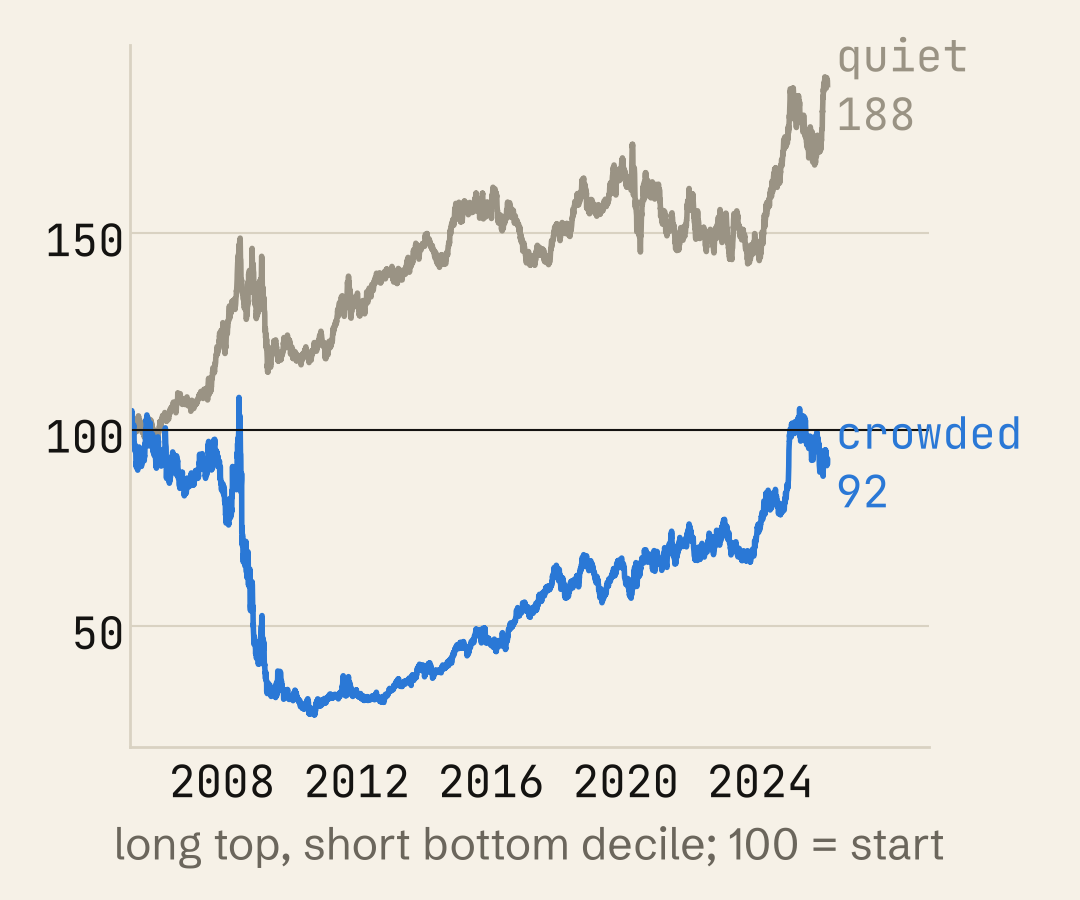
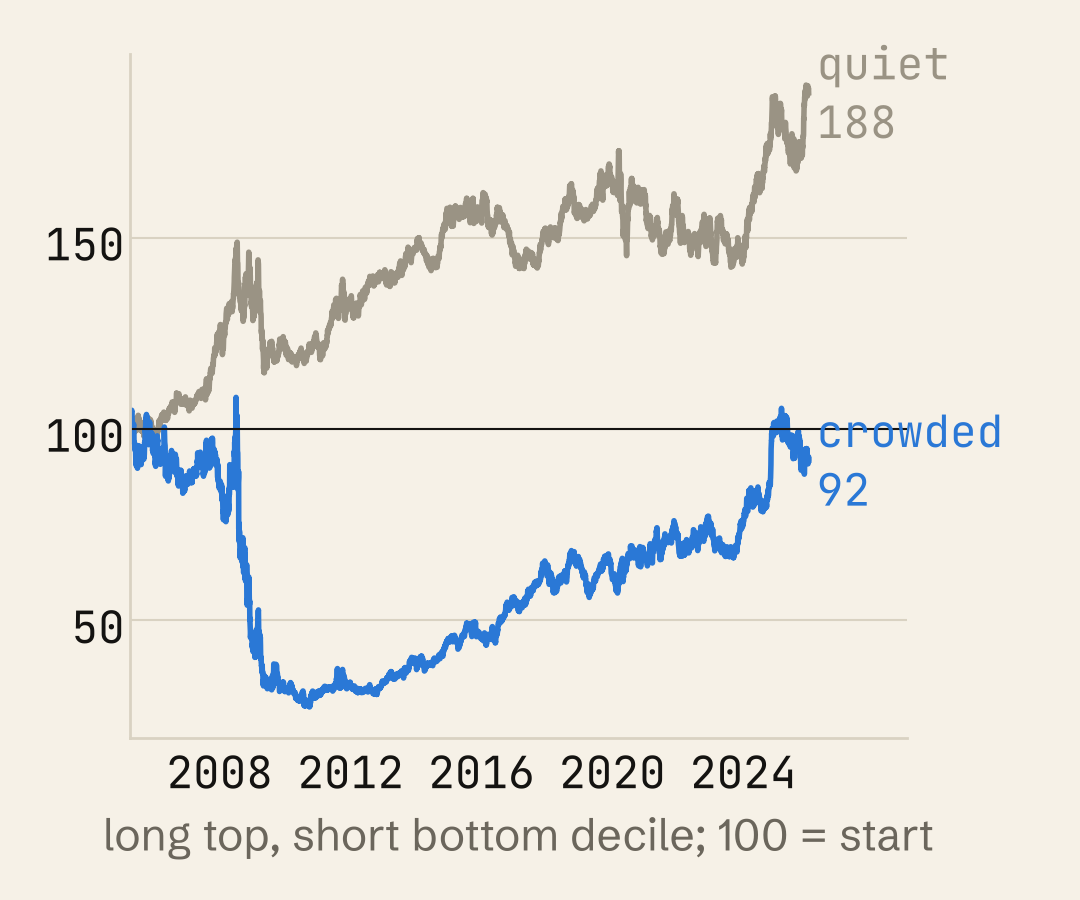
Chart margins, tick collisions, annotation placement, header gap

Changed region(s): [[0.0611, 0.4356, 0.9472, 0.9644], [0.0306, 0.0311, 0.8861, 0.4356]]

diff --git a/carousel/charts3.py b/carousel/charts3.py
@@ -46,13 +46,13 @@ def heatmap(theme="cream"):
     H = pd.read_csv(ROOT / "output/exhibit_heatmap.csv", index_col=0); H.columns = H.columns.astype(int)
     F = pd.read_csv(ROOT / "output/exhibit_heatmap_fomc.csv")
     fig, T = _fig(theme, h=1050)
-    ax = fig.add_axes([0.13, 0.12, 0.84, 0.85])
+    ax = fig.add_axes([0.14, 0.15, 0.80, 0.81])
     cmap = LinearSegmentedColormap.from_list("seq", [T["bg"], "#c9d8ee", "#7faae0", "#2a78d6", "#143c6e"])
     ax.imshow(H.values, aspect="auto", cmap=cmap, vmin=0, vmax=np.nanpercentile(H.values, 98), interpolation="nearest")
     ax.scatter(F["doq"] - 1, [H.index.get_loc(y) for y in F["year"]], s=26, color=T["contrast"], linewidths=0)
-    ax.set_yticks(range(0, len(H.index), 5)); ax.set_yticklabels(H.index[::5], fontfamily=MONO)
-    ax.set_xticks([0, 20, 40, 60]); ax.set_xticklabels(["day 1", "day 21", "day 41", "day 61"], fontfamily=MONO)
-    ax.set_xlabel("trading day within the calendar quarter")
+    ax.set_yticks(range(0, len(H.index) - 1, 5)); ax.set_yticklabels(H.index[:-1:5], fontfamily=MONO)
+    ax.set_xticks([0, 20, 40, 60]); ax.set_xticklabels(["1", "21", "41", "61"], fontfamily=MONO); ax.tick_params(axis="x", pad=14)
+    ax.set_xlabel("trading day of the quarter")
     for s in ax.spines.values(): s.set_visible(False)
     _save(fig, "heatmap")
 
@@ -61,7 +61,7 @@ def minutes(theme="cream"):
     h = pd.read_csv(ROOT / "output/exhibit_minute_hist.csv", index_col=0)["n"]
     full = pd.Series(0.0, index=range(1440)); full.loc[h.index] = h.values; full = full / full.sum() * 100
     fig, T = _fig(theme, h=900)
-    ax = fig.add_axes([0.11, 0.17, 0.86, 0.75])
+    ax = fig.add_axes([0.12, 0.18, 0.82, 0.76])
     x = np.arange(1440) / 60
     ax.fill_between(x, 0, full.values, color=T["accent"], step="mid", lw=0)
     for m, lab in ((8.5, "08:30 CPI, jobs"), (14.0, "14:00 FOMC")):
@@ -70,10 +70,10 @@ def minutes(theme="cream"):
     for m, lab in ((9.5, "open"), (16.0, "close")):
         ax.axvline(m, color=T["ink"], lw=1.5, ls=(0, (2, 3)))
         ax.text(m + 0.12, 2.35, lab, rotation=90, va="top", fontsize=28, color=T["muted"], fontfamily=MONO)
-    ax.text(20.6, 1.0, "20% of releases\nland in the 15 min\nafter the close", fontsize=30, ha="right", va="top", color=T["ink"])
+    ax.annotate("20% of releases land in\nthe 15 min after the close", xy=(16.1, 1.1), xytext=(9.9, 0.72), fontsize=30, ha="left", va="center", color=T["ink"], arrowprops=dict(arrowstyle="-", color=T["muted"], lw=1.5, shrinkB=6))
     ax.set_xlim(5.5, 21); ax.set_ylim(0, 2.5)
     ax.set_xticks([6, 9, 12, 15, 18]); ax.set_xticklabels([f"{t:02d}:00" for t in [6, 9, 12, 15, 18]], fontfamily=MONO)
-    ax.set_yticks([0, 1, 2]); ax.set_yticklabels(["0", "1%", "2%"], fontfamily=MONO)
+    ax.set_yticks([1, 2]); ax.set_yticklabels(["1%", "2%"], fontfamily=MONO)
     ax.set_xlabel("time the 8-K hit EDGAR, Eastern"); ax.yaxis.grid(True, color=T["line"], lw=1.5); ax.set_axisbelow(True)
     _save(fig, "minutes")
 
@@ -81,7 +81,7 @@ def minutes(theme="cream"):
 def drift_paths(theme="cream"):
     p = pd.read_csv(ROOT / "output/exhibit_car_paths.csv", index_col=0); d = p.loc[1:]; d = d - d.iloc[0]
     fig, T = _fig(theme, h=900)
-    ax = fig.add_axes([0.15, 0.17, 0.72, 0.78])
+    ax = fig.add_axes([0.14, 0.18, 0.70, 0.76])
     ax.axhline(0, color=T["line"], lw=2)
     ax.plot(d.index, d["uncrowded"], color=T["grey"], lw=5)
     ax.plot(d.index, d["crowded"], color=T["accent"], lw=5)
@@ -96,7 +96,7 @@ def drift_paths(theme="cream"):
 
 def forest(rows, name, theme="cream", xlim=(-5.8, 5.8), h=900, highlight=lambda i: i < 2):
     fig, T = _fig(theme, h=h)
-    ax = fig.add_axes([0.42, 0.17, 0.55, 0.79])
+    ax = fig.add_axes([0.42, 0.18, 0.52, 0.76])
     y = np.arange(len(rows))[::-1]
     for i, (yi, (lab, b, se)) in enumerate(zip(y, rows)):
         col = T["accent"] if highlight(i) else T["grey"]
@@ -116,7 +116,7 @@ def forest(rows, name, theme="cream", xlim=(-5.8, 5.8), h=900, highlight=lambda 
 def placebo(theme="cream"):
     draws = np.load(ROOT / "output/placebo_draws_holdout.npy") * 100
     fig, T = _fig(theme, h=900)
-    ax = fig.add_axes([0.08, 0.17, 0.89, 0.78])
+    ax = fig.add_axes([0.08, 0.18, 0.86, 0.76])
     ax.hist(draws, bins=36, color=T["grey"], edgecolor=T["bg"], lw=1.5)
     ax.axvline(0.748, color=T["contrast"], lw=5)
     ax.text(0.85, ax.get_ylim()[1] * 0.93, "holdout\nestimate\n+0.75 pp", color=T["contrast"], fontsize=32, fontfamily=MONO, va="top")
@@ -147,7 +147,7 @@ def positive_control(theme="navy"):
 
 def bars2(rows, name, theme, ylim, ylabel, legend):
     fig, T = _fig(theme, h=900)
-    ax = fig.add_axes([0.12, 0.17, 0.85, 0.75])
+    ax = fig.add_axes([0.12, 0.18, 0.82, 0.74])
     x = np.arange(len(rows)); w = 0.36
     for j, (col, lab) in enumerate(legend):
         bars = ax.bar(x + (j - 0.5) * (w + 0.02), [r[1 + j] for r in rows], w, color=col, label=lab)
@@ -162,7 +162,7 @@ def bars2(rows, name, theme, ylim, ylabel, legend):
 def pead_by_year(theme="cream"):
     d = pd.read_csv(ROOT / "output/exhibit_pead_by_year.csv")
     fig, T = _fig(theme, h=900)
-    ax = fig.add_axes([0.15, 0.17, 0.82, 0.78])
+    ax = fig.add_axes([0.15, 0.18, 0.79, 0.76])
     ax.fill_between(d.year, d.drift_pp - 1.96 * d.se_pp, d.drift_pp + 1.96 * d.se_pp, color="#c9d8ee" if theme == "cream" else "#2a3a52", lw=0, alpha=0.8)
     ax.plot(d.year, d.drift_pp, color=T["accent"], lw=5, marker="o", ms=11, markeredgecolor=T["bg"])
     ax.axhline(0, color=T["ink"], lw=2)
@@ -179,7 +179,7 @@ def equity(theme="cream"):
     d = pd.read_csv(ROOT / "output/exhibit_portfolio_daily.csv", index_col=0, parse_dates=True).dropna(how="all").fillna(0).loc["2005-04-01":"2025-12-31"]
     cum = (1 + d).cumprod() * 100
     fig, T = _fig(theme, h=900)
-    ax = fig.add_axes([0.12, 0.17, 0.74, 0.78])
+    ax = fig.add_axes([0.12, 0.18, 0.72, 0.76])
     ax.plot(cum.index, cum["uncrowded"], color=T["grey"], lw=4)
     ax.plot(cum.index, cum["crowded"], color=T["accent"], lw=4)
     ax.text(cum.index[-1] + pd.Timedelta(days=90), cum["uncrowded"].iloc[-1], "quiet\n188", color=T["grey"], fontsize=32, fontfamily=MONO, va="center")
@@ -194,7 +194,7 @@ def equity(theme="cream"):
 
 if __name__ == "__main__":
     heatmap(); minutes(); drift_paths(); placebo(); positive_control("navy"); pead_by_year(); equity()
-    forest([("development\n2005–15", -0.01482, 0.00714), ("holdout\n2016–25", 0.00748, 0.00662), ("FOMC only, dev", -0.03838, 0.00901),
+    forest([("development 2005–15", -0.01482, 0.00714), ("holdout 2016–25", 0.00748, 0.00662), ("FOMC only, dev", -0.03838, 0.00901),
             ("FOMC only, holdout", 0.00059, 0.00925), ("CPI only, holdout", 0.00795, 0.01457), ("jobs only, holdout", 0.00919, 0.00902)], "coef")
     bars2([("2010–15\ndevelopment", 42.7, 42.4), ("2016–25\nholdout", 44.8, 43.6)], "h2", "cream", (0, 58), "EPS below last year, share",
           ((THEMES["cream"]["accent"], "crowded session"), (THEMES["cream"]["grey"], "quiet session")))

diff --git a/carousel/build2.py b/carousel/build2.py
@@ -49,10 +49,10 @@ h2{{font-family:Fraunces,serif;font-weight:600;font-size:58px;line-height:1.08;l
 .bignum .l{{font-size:34px;color:#aab4c3;margin-top:22px;max-width:380px;line-height:1.3}}
 .bignum .sub{{margin-top:110px;font-size:36px;max-width:860px}}
 /* chart */
-.chart .head{{padding:72px 88px 0;height:{H - 860}px}}
-.chart .img{{position:absolute;left:60px;right:60px;bottom:40px;height:800px}}
+.chart .head{{padding:72px 88px 0}}
+.chart .img{{margin:28px 60px 0;height:800px}}
 .chart .img img{{width:960px;height:800px;display:block}}
-.chart.tall .head{{height:{H - 980}px;padding-top:64px}} .chart.tall h2{{font-size:52px;margin-top:10px}} .chart.tall .img{{height:933px;bottom:40px}} .chart.tall .img img{{height:933px}}
+.chart.tall h2{{font-size:52px;margin-top:10px}} .chart.tall .img{{height:933px}} .chart.tall .img img{{height:933px}}
 /* split photo */
 .split .photo{{position:absolute;left:0;top:0;bottom:0;width:470px;background:url('file://{PHOTOS}/sec_cover.png') center/cover no-repeat}}
 .split .panel{{position:absolute;left:470px;top:0;bottom:0;right:0;background:var(--ink);color:var(--cream);padding:80px 72px 72px 64px}}
@@ -110,9 +110,9 @@ def main():
         for i, sl in enumerate(slides, 1):
             f = OUT / f"slide_{i:02d}.html"; f.write_text(render(sl, i, N)); pg.goto(f"file://{f}"); pg.wait_for_timeout(200)
             words = pg.evaluate("() => document.body.innerText.split(/\\s+/).filter(Boolean).length")
-            ov = pg.evaluate("() => { const h=document.querySelector('.head'); return h ? h.scrollHeight > h.clientHeight : false }")
+            ov = pg.evaluate("() => document.documentElement.scrollHeight > 1350 || (document.querySelector('.img') ? document.querySelector('.img').getBoundingClientRect().bottom > 1350 : false)")
             png = OUT / f"slide_{i:02d}.png"; pg.screenshot(path=str(png)); pngs.append(png)
-            print(f"slide {i:02d} {sl['type']:12s} words={words}{' HEAD OVERFLOW' if ov else ''}")
+            print(f"slide {i:02d} {sl['type']:12s} words={words}{' OVERFLOW' if ov else ''}")
         b.close()
     from PIL import Image
     ims = [Image.open(x).convert("RGB") for x in pngs]
